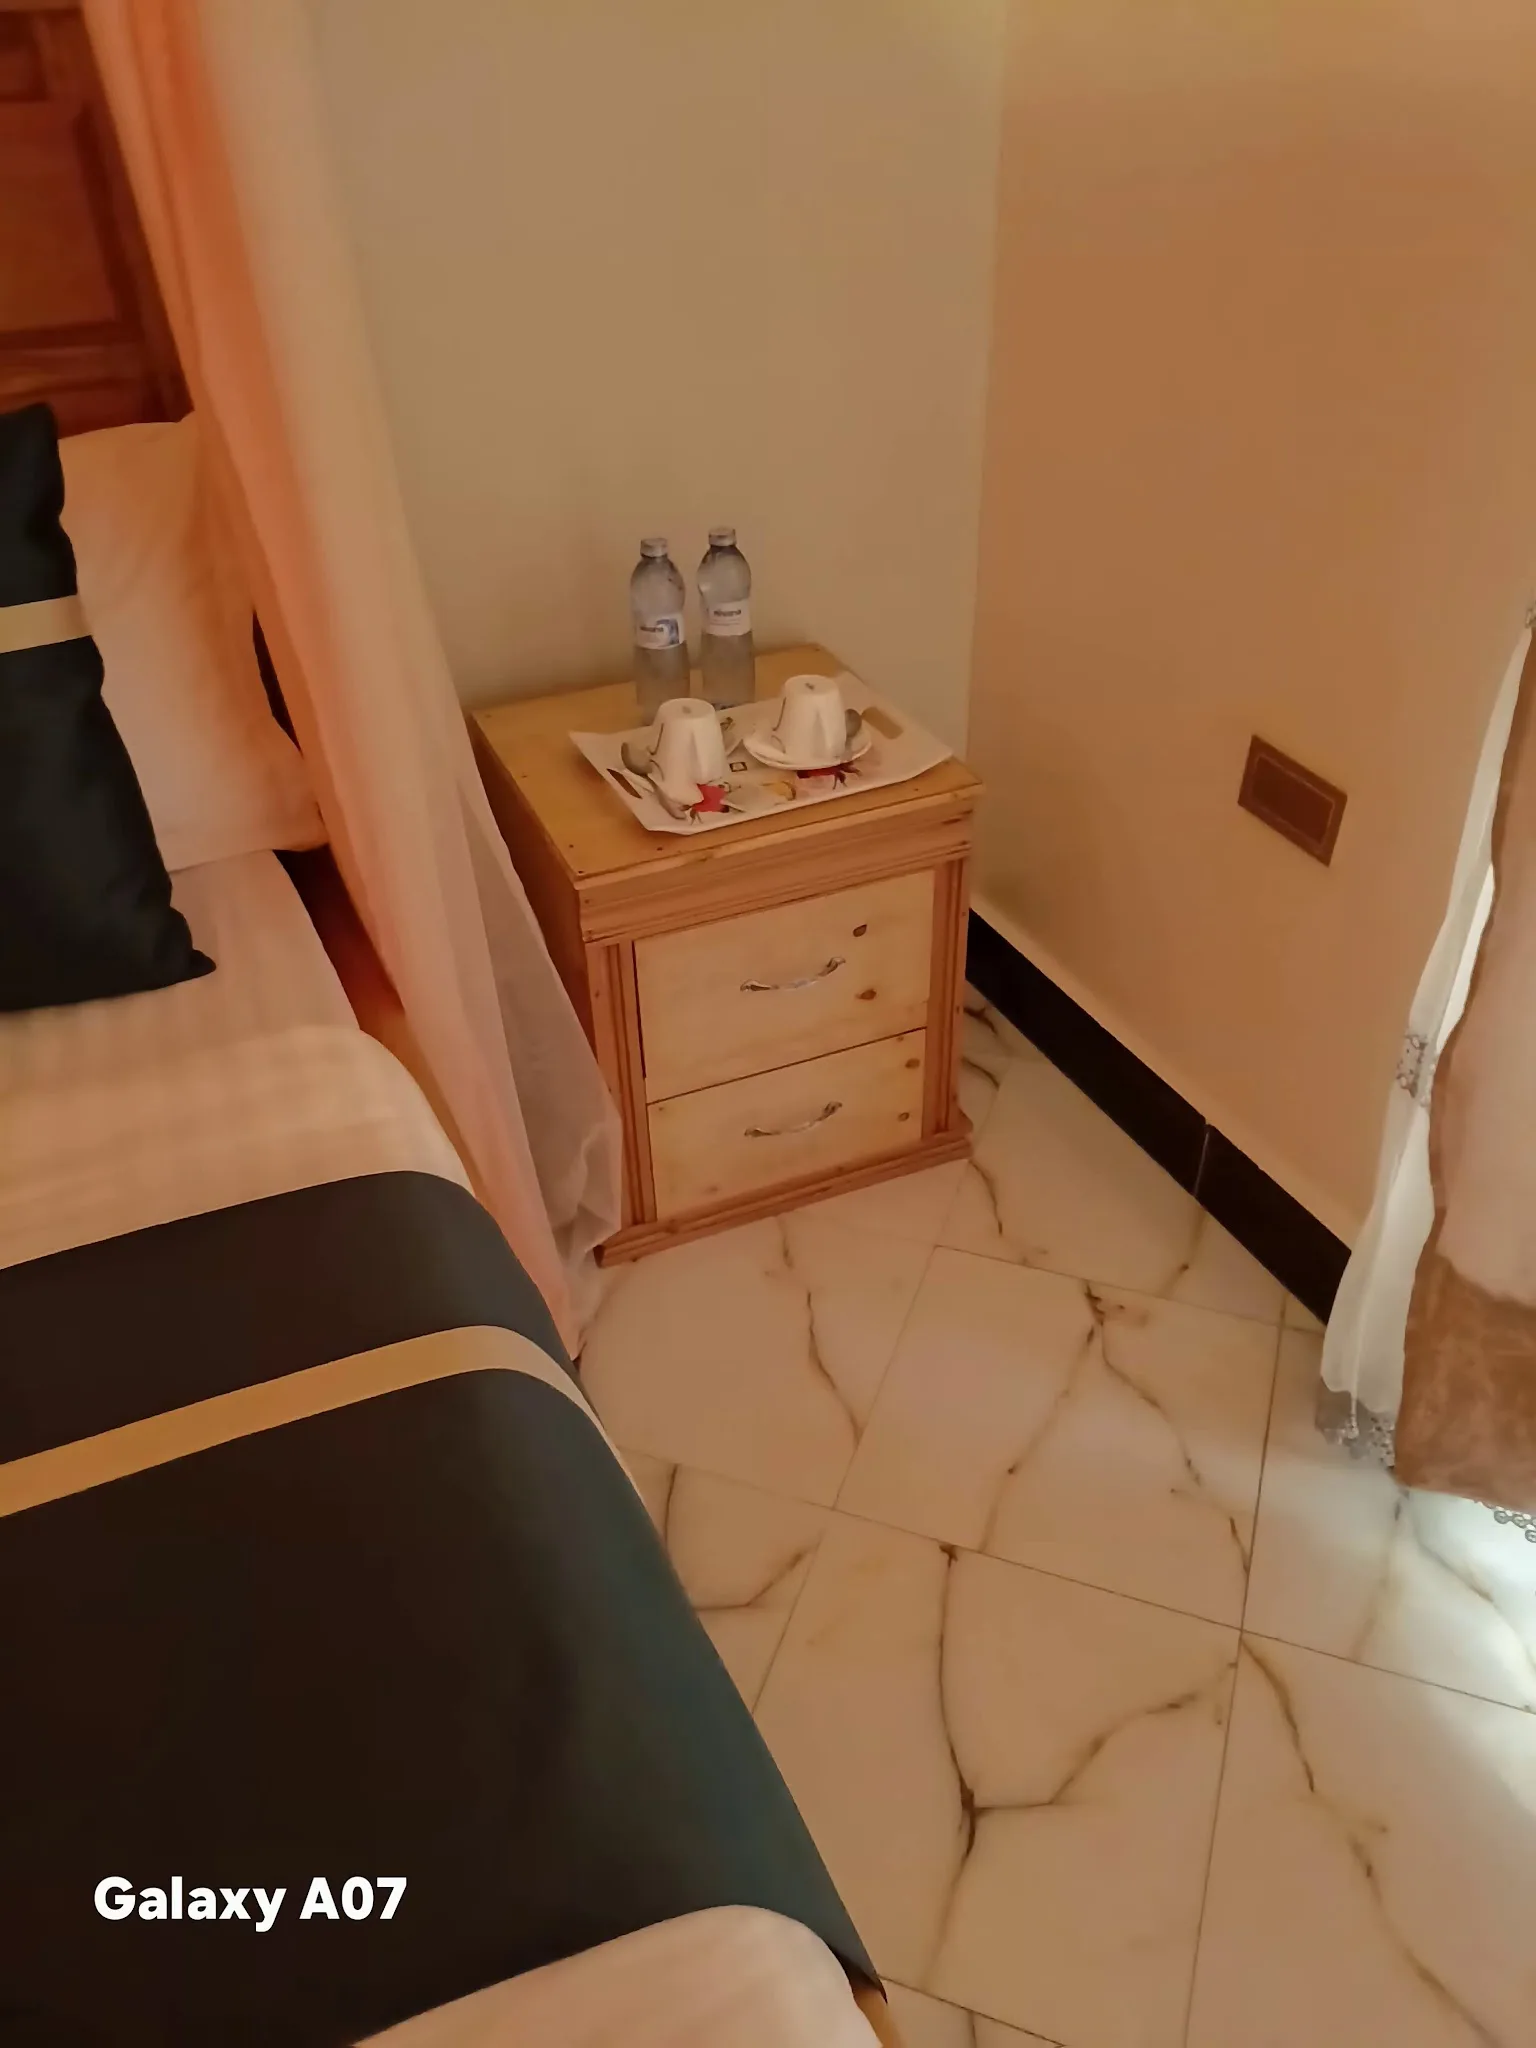
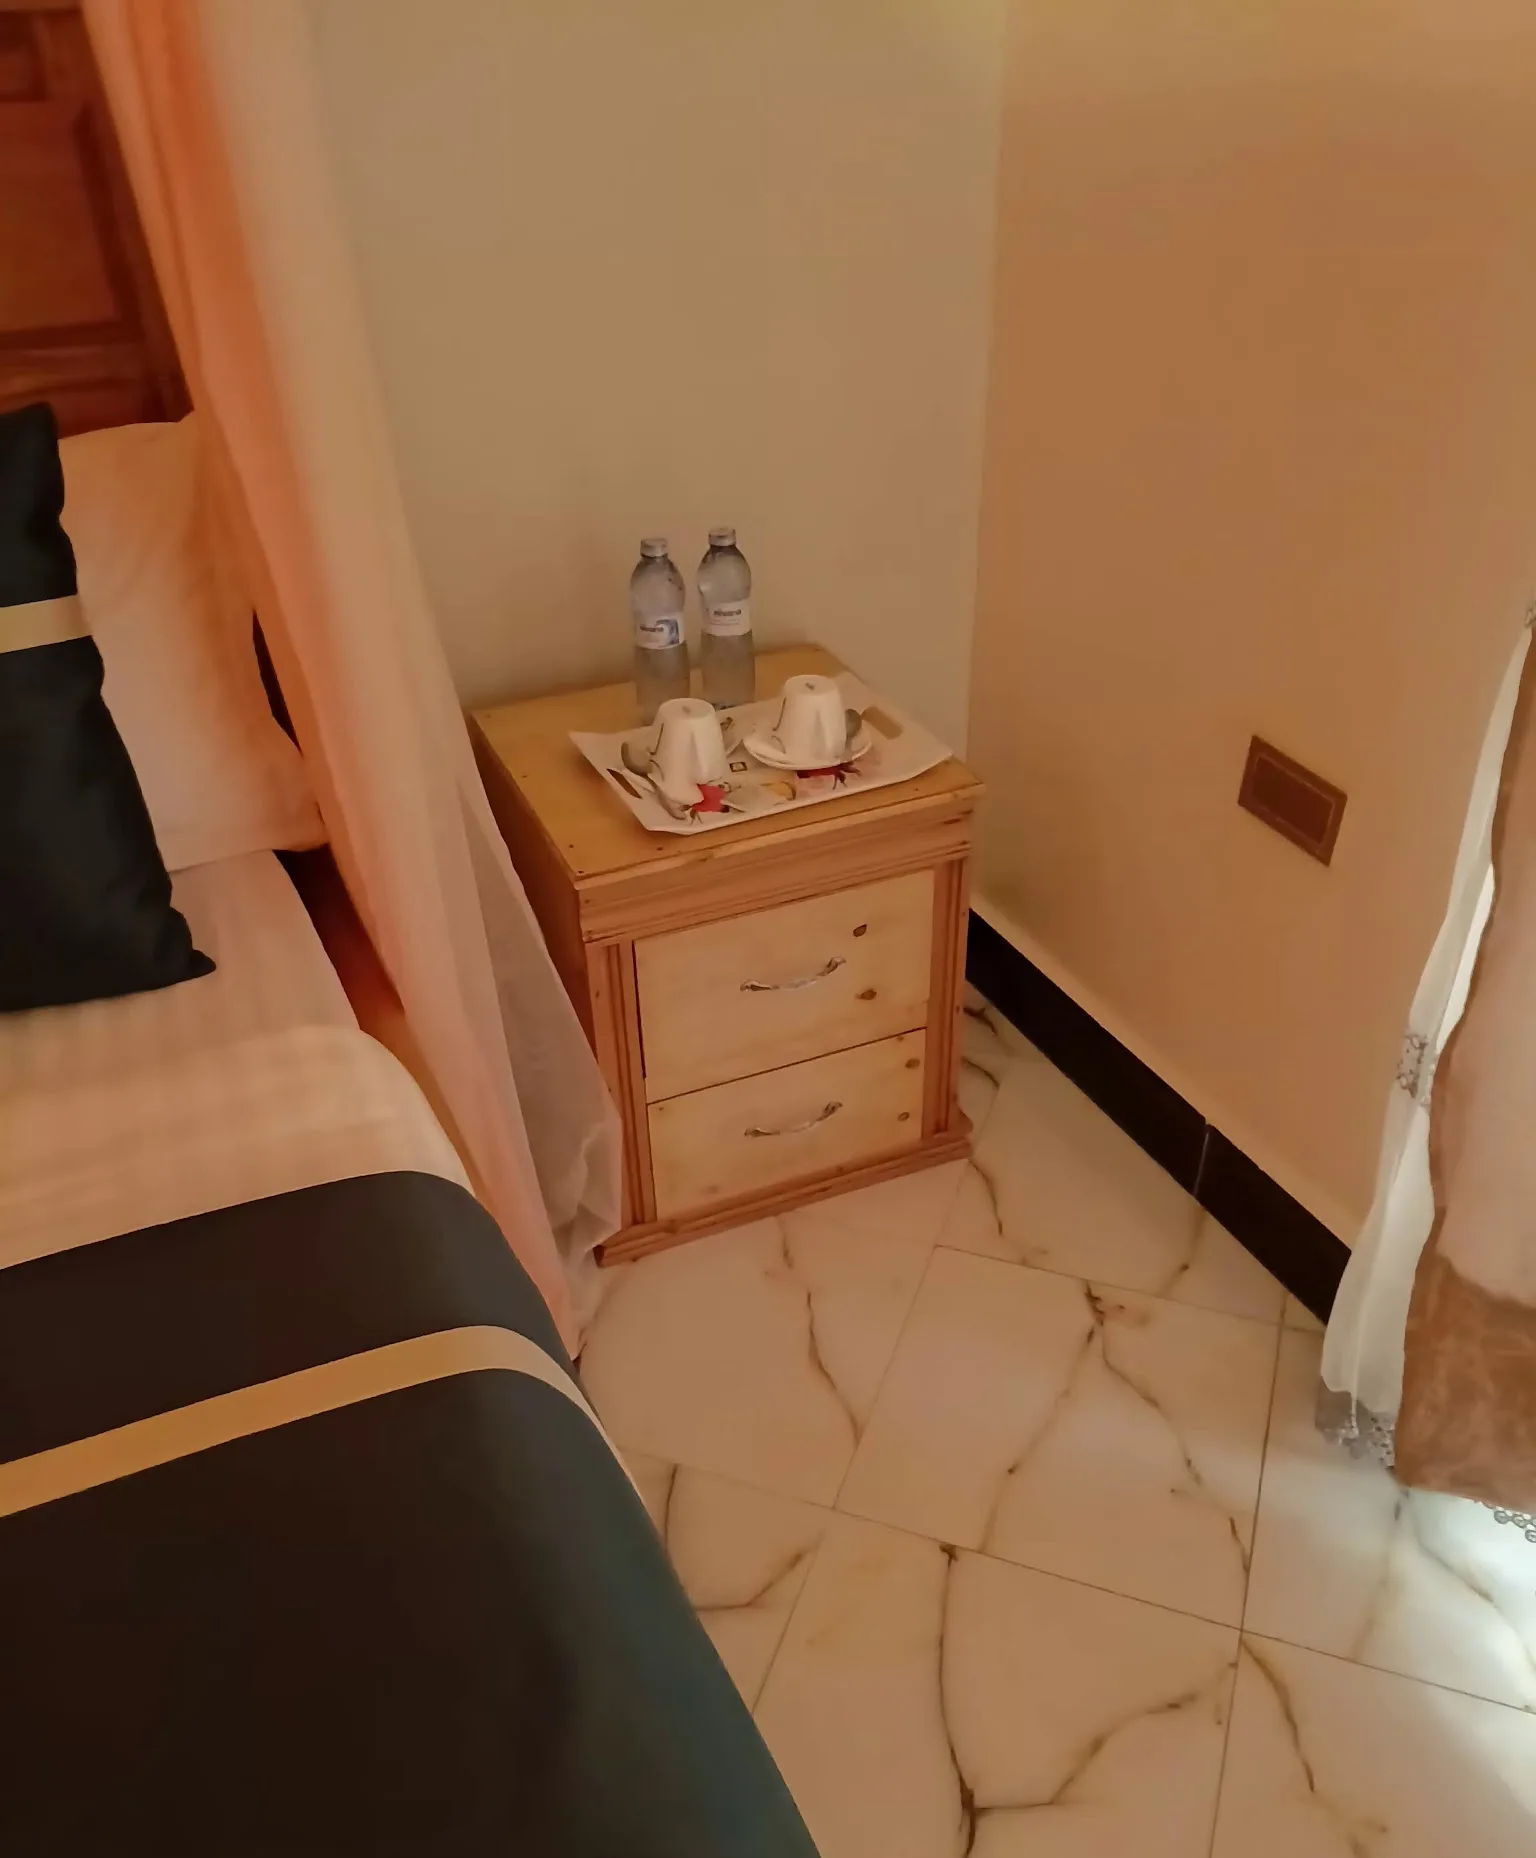
Crop Galaxy A07 watermarks; keep explore page pictures; fix twin room photo

diff --git a/gallery.html b/gallery.html
@@ -30,7 +30,7 @@
 <section class="sec">
  <div class="wrap">
  
-  <div class="ggrid"><img loading="lazy" src="assets/images/relie-aerial-courtyard.webp" alt="Relie Motel courtyard and secure parking from the air"><img loading="lazy" src="assets/images/relie-aerial-entrance.webp" alt="Relie Motel entrance with palm trees from the air"><img loading="lazy" src="assets/images/relie-aerial-forecourt.webp" alt="Relie Motel glass wing and curved balconies from the air"><img loading="lazy" src="assets/images/relie-aerial-neighborhood.webp" alt="Relie Motel and its Fort Portal neighborhood from the air"><img loading="lazy" src="assets/images/relie-aerial-wide.webp" alt="Wide aerial view of Relie Motel and Fort Portal"><img loading="lazy" src="assets/images/relie-entrance-plants.webp" alt="Relie Motel entrance with potted plants"><img loading="lazy" src="assets/images/relie-lobby-plants.webp" alt="Snake plants by the lobby staircase"><img loading="lazy" src="assets/images/relie-corridor.webp" alt="Corridor to the rooms"><img loading="lazy" src="assets/images/relie-room-double.webp" alt="Standard Double Room with TV"><img loading="lazy" src="assets/images/relie-room-twin.webp" alt="Standard room with canopy netting and TV"><img loading="lazy" src="assets/images/relie-room-deluxe.webp" alt="Deluxe Double Room with canopy bed"><img loading="lazy" src="assets/images/relie-room-deluxe-2.webp" alt="Deluxe room with canopy bed and TV"><img loading="lazy" src="assets/images/relie-room-suite.webp" alt="Room with canopy bed and dining table"><img loading="lazy" src="assets/images/relie-room-canopy.webp" alt="Bed with canopy netting"><img loading="lazy" src="assets/images/relie-room-bedside.webp" alt="Bedside with fresh towels and water"><img loading="lazy" src="assets/images/relie-bed-overhead.webp" alt="Freshly made bed"><img loading="lazy" src="assets/images/relie-room-tray.webp" alt="Welcome tray with tea and coffee"><img loading="lazy" src="assets/images/relie-bath.webp" alt="Private bathroom with shower"><img loading="lazy" src="assets/images/relie-bath-sink.webp" alt="Bathroom vanity"><img loading="lazy" src="assets/images/relie-bath-shower.webp" alt="Modern rainfall shower"><img loading="lazy" src="assets/images/relie-dining-room.webp" alt="Restaurant dining corner by the window"><img loading="lazy" src="assets/images/relie-dining-corner.webp" alt="Dining area in the restaurant"><img loading="lazy" src="assets/images/relie-bar-shelf.webp" alt="The bar"><img loading="lazy" src="assets/images/relie-bar-fridge.webp" alt="Chilled drinks at the bar"><img loading="lazy" src="assets/images/relie-conference.webp" alt="Conference and events hall"><img loading="lazy" src="assets/images/relie-conference-proj.webp" alt="Conference room with projector"><img loading="lazy" src="assets/images/relie-massage.webp" alt="In-house massage room"><img loading="lazy" src="assets/images/relie-spa-products.webp" alt="Spa and wellness products"><img loading="lazy" src="assets/images/relie-spa-towels.webp" alt="Fresh spa towels"></div>
+  <div class="ggrid"><img loading="lazy" src="assets/images/relie-aerial-courtyard.webp" alt="Relie Motel courtyard and secure parking from the air"><img loading="lazy" src="assets/images/relie-aerial-entrance.webp" alt="Relie Motel entrance with palm trees from the air"><img loading="lazy" src="assets/images/relie-aerial-forecourt.webp" alt="Relie Motel glass wing and curved balconies from the air"><img loading="lazy" src="assets/images/relie-aerial-neighborhood.webp" alt="Relie Motel and its Fort Portal neighborhood from the air"><img loading="lazy" src="assets/images/relie-aerial-wide.webp" alt="Wide aerial view of Relie Motel and Fort Portal"><img loading="lazy" src="assets/images/relie-entrance-plants.webp" alt="Relie Motel entrance with potted plants"><img loading="lazy" src="assets/images/relie-lobby-plants.webp" alt="Snake plants by the lobby staircase"><img loading="lazy" src="assets/images/relie-corridor.webp" alt="Corridor to the rooms"><img loading="lazy" src="assets/images/relie-room-double.webp" alt="Standard Double Room with TV"><img loading="lazy" src="assets/images/relie-room-deluxe.webp" alt="Deluxe Double Room with canopy bed"><img loading="lazy" src="assets/images/relie-room-deluxe-2.webp" alt="Deluxe room with canopy bed and TV"><img loading="lazy" src="assets/images/relie-room-suite.webp" alt="Room with canopy bed and dining table"><img loading="lazy" src="assets/images/relie-room-canopy.webp" alt="Bed with canopy netting"><img loading="lazy" src="assets/images/relie-room-bedside.webp" alt="Bedside with fresh towels and water"><img loading="lazy" src="assets/images/relie-bed-overhead.webp" alt="Freshly made bed"><img loading="lazy" src="assets/images/relie-room-tray.webp" alt="Welcome tray with tea and coffee"><img loading="lazy" src="assets/images/relie-bath.webp" alt="Private bathroom with shower"><img loading="lazy" src="assets/images/relie-bath-sink.webp" alt="Bathroom vanity"><img loading="lazy" src="assets/images/relie-bath-shower.webp" alt="Modern rainfall shower"><img loading="lazy" src="assets/images/relie-dining-room.webp" alt="Restaurant dining corner by the window"><img loading="lazy" src="assets/images/relie-dining-corner.webp" alt="Dining area in the restaurant"><img loading="lazy" src="assets/images/relie-bar-shelf.webp" alt="The bar"><img loading="lazy" src="assets/images/relie-bar-fridge.webp" alt="Chilled drinks at the bar"><img loading="lazy" src="assets/images/relie-conference.webp" alt="Conference and events hall"><img loading="lazy" src="assets/images/relie-conference-proj.webp" alt="Conference room with projector"><img loading="lazy" src="assets/images/relie-massage.webp" alt="In-house massage room"><img loading="lazy" src="assets/images/relie-spa-products.webp" alt="Spa and wellness products"><img loading="lazy" src="assets/images/relie-spa-towels.webp" alt="Fresh spa towels"></div>
  </div>
 </section>
 <footer>

diff --git a/packages.html b/packages.html
@@ -31,7 +31,7 @@
  <div class="wrap">
   <div class="cards">
    <div class="card"><img src="assets/images/relie-room-double.webp" alt="Best available rate rooms"><div class="b"><h3>Best Available Rate</h3><p class="rate">Unlock the Best. Every Time.</p><p style="font-size:.9rem">Book direct on WhatsApp and enjoy the most flexible, competitive rate available — plus instant confirmation from our front desk.</p><div class="links"><a href="https://wa.me/256778472498?text=Hello%20Relie%20Motel!%20Please%20give%20me%20your%20best%20available%20rate.">Book Now</a></div></div></div>
-   <div class="card"><img src="assets/images/relie-room-bedside.webp" alt="Advanced purchase rooms"><div class="b"><h3>Advanced Purchase</h3><p class="rate">Plan Ahead. Save Big.</p><p style="font-size:.9rem">Book 14+ days in advance and save 10%. Non-refundable, so book with certainty and start counting down to your getaway.</p><div class="links"><a href="https://wa.me/256778472498?text=Hello%20Relie%20Motel!%20I%27d%20like%20the%20Advanced%20Purchase%20rate.">Book Now</a></div></div></div>
+   <div class="card"><img src="assets/images/relie-bed-overhead.webp" alt="Advanced purchase rooms"><div class="b"><h3>Advanced Purchase</h3><p class="rate">Plan Ahead. Save Big.</p><p style="font-size:.9rem">Book 14+ days in advance and save 10%. Non-refundable, so book with certainty and start counting down to your getaway.</p><div class="links"><a href="https://wa.me/256778472498?text=Hello%20Relie%20Motel!%20I%27d%20like%20the%20Advanced%20Purchase%20rate.">Book Now</a></div></div></div>
    <div class="card"><img src="assets/images/relie-aerial-neighborhood.webp" alt="Fort Portal toward Kibale"><div class="b"><h3>Kibale Chimp Trekking Package</h3><p class="rate">Stay + Trek Bundle</p><p style="font-size:.9rem">Two nights' accommodation, breakfast, and help arranging your Kibale National Park chimpanzee trekking permit and guide. The park is just 13 km away.</p><div class="links"><a href="https://wa.me/256778472498?text=Hello%20Relie%20Motel!%20Tell%20me%20more%20about%20the%20Kibale%20Chimp%20Trekking%20Package.">Book Now</a></div></div></div>
    <div class="card"><img src="assets/images/relie-conference.webp" alt="Groups and events at Relie Motel"><div class="b"><h3>Groups &amp; Tour Operators</h3><p class="rate">Partner Rate</p><p style="font-size:.9rem">Special rates for tour operators, schools, church groups and wedding blocks of 5+ rooms. Partnership commission available for operators.</p><div class="links"><a href="groups.html">Request Proposal</a></div></div></div>
   </div>

diff --git a/index.html b/index.html
@@ -57,7 +57,7 @@
   <p class="lead">Explore our range of accommodations, from cozy standard rooms to spacious deluxe doubles, tailored to suit every traveller's preference.</p>
   <div class="cards">
    <div class="card"><img src="assets/images/relie-room-double.webp" alt="Standard Double Room"><div class="b"><h3>Standard Double Room</h3><p style="font-size:.9rem;color:#666">1 double bed · private bathroom · Wi-Fi · TV</p><p class="rate">Rates from USD 24</p><div class="links"><a href="rooms/double.html">See room details</a><a href="https://wa.me/256778472498?text=Hello%20Relie%20Motel!%20I%27d%20like%20to%20book%20the%20Standard%20Double%20Room.">Book now</a></div></div></div>
-   <div class="card"><img src="assets/images/relie-room-twin.webp" alt="Standard Twin Room"><div class="b"><h3>Standard Twin Room</h3><p style="font-size:.9rem;color:#666">2 single beds · writing desk · sitting area</p><p class="rate">Rates from USD 29</p><div class="links"><a href="rooms/twin.html">See room details</a><a href="https://wa.me/256778472498?text=Hello%20Relie%20Motel!%20I%27d%20like%20to%20book%20the%20Standard%20Twin%20Room.">Book now</a></div></div></div>
+   <div class="card"><img src="assets/images/relie-room-bedside.webp" alt="Standard Twin Room"><div class="b"><h3>Standard Twin Room</h3><p style="font-size:.9rem;color:#666">2 single beds · writing desk · sitting area</p><p class="rate">Rates from USD 29</p><div class="links"><a href="rooms/twin.html">See room details</a><a href="https://wa.me/256778472498?text=Hello%20Relie%20Motel!%20I%27d%20like%20to%20book%20the%20Standard%20Twin%20Room.">Book now</a></div></div></div>
    <div class="card"><img src="assets/images/relie-room-deluxe.webp" alt="Deluxe Double Room"><div class="b"><h3>Deluxe Double Room</h3><p style="font-size:.9rem;color:#666">Upscale double · sitting area · garden-facing</p><p class="rate">Rates from USD 35</p><div class="links"><a href="rooms/deluxe.html">See room details</a><a href="https://wa.me/256778472498?text=Hello%20Relie%20Motel!%20I%27d%20like%20to%20book%20the%20Deluxe%20Double%20Room.">Book now</a></div></div></div>
   </div>
   <a class="btn em" href="stay.html">See All Accommodations</a>

diff --git a/explore.html b/explore.html
@@ -44,7 +44,7 @@
    <div class="card"><img src="assets/images/places/rwenzori.webp" alt="Rwenzori Mountains of the Moon" loading="lazy"><div class="b"><h3>Rwenzori Mountains</h3><p class="rate">Mountains &middot; about 1 hr 30</p><p style="font-size:.9rem">The legendary Mountains of the Moon. Day hikes to panoramic ridges or full treks to Margherita Peak, Africa's third highest summit.</p></div></div>
    <div class="card"><img src="assets/images/places/tea.webp" alt="Tea plantations around Fort Portal" loading="lazy"><div class="b"><h3>Tea Plantation Tours</h3><p class="rate">Countryside &middot; on the roadside</p><p style="font-size:.9rem">The hills around Fort Portal are carpeted in tea — stop at the estates along the Kibale road, plus the Karambi Royal Tombs of the Tooro kings.</p></div></div>
    <div class="card"><img src="assets/images/places/albert.webp" alt="Lake Albert and the Albertine Rift" loading="lazy"><div class="b"><h3>Lake Albert &amp; the Rift</h3><p class="rate">Rift &middot; about 2 hrs</p><p style="font-size:.9rem">Stand on the escarpment edge and look across the Albertine Rift toward the Congo border, with fishing villages below at Ntoroko.</p></div></div>
-   <div class="card"><img src="assets/images/relie-aerial-wide.webp" alt="Fort Portal from the air" loading="lazy"><div class="b"><h3>Golf &amp; Sports</h3><p class="rate">In town &middot; within 2 km</p><p style="font-size:.9rem">Fort Portal Golf Course, Afriyea Golf Academy and King Oyo Sports Complex — all a short hop from the motel.</p></div></div>
+   <div class="card"><img src="assets/images/demo-groups-conference.webp" alt="Golf and sports in Fort Portal" loading="lazy"><div class="b"><h3>Golf &amp; Sports</h3><p class="rate">In town &middot; within 2 km</p><p style="font-size:.9rem">Fort Portal Golf Course, Afriyea Golf Academy and King Oyo Sports Complex — all a short hop from the motel.</p></div></div>
   </div>
  </div>
 </section>

diff --git a/rooms/twin.html b/rooms/twin.html
@@ -25,12 +25,12 @@
   <button id="bookBtn">BOOK NOW</button>
  </div>
 </div>
-<section class="page-hero"><img src="../assets/images/relie-room-twin.webp" alt="Standard Twin Room at Relie Motel">
+<section class="page-hero"><img src="../assets/images/relie-room-bedside.webp" alt="Standard Twin Room at Relie Motel">
  <div class="cap"><div class="tag">Accommodations</div><h1>Standard Twin Room</h1></div></section>
 <section class="sec alt">
  <div class="wrap">
   <div class="cards" style="grid-template-columns:repeat(auto-fit,minmax(300px,1fr))">
-   <div class="card"><img src="../assets/images/relie-room-twin.webp" alt="Standard Twin Room at Relie Motel"><div class="b"><p class="rate">Rates from USD 29 / night</p><p style="font-size:.9rem;color:#666">2 single beds · sleeps 2</p><p style="margin-top:14px"><a class="btn" href="https://wa.me/256778472498?text=Hello%20Relie%20Motel!%20I%27d%20like%20to%20book%20the%20Standard Twin Room">Book Now</a></p></div></div>
+   <div class="card"><img src="../assets/images/relie-room-bedside.webp" alt="Standard Twin Room at Relie Motel"><div class="b"><p class="rate">Rates from USD 29 / night</p><p style="font-size:.9rem;color:#666">2 single beds · sleeps 2</p><p style="margin-top:14px"><a class="btn" href="https://wa.me/256778472498?text=Hello%20Relie%20Motel!%20I%27d%20like%20to%20book%20the%20Standard Twin Room">Book Now</a></p></div></div>
    <div class="card"><div class="b"><h3>About This Room</h3><p style="font-size:.95rem">Two single beds, a writing desk and a bright window make the Twin a favourite with colleagues and friends travelling together.</p>
    <h3 style="margin-top:18px">Room Amenities</h3>
    <ul class="tick" style="margin-top:10px">

diff --git a/stay.html b/stay.html
@@ -37,7 +37,7 @@
   <p class="lead">The Standard Rooms are an exceptional value — clean, spacious and quiet, offered with one double bed or two single beds.</p>
   <div class="cards">
    <div class="card"><img src="assets/images/relie-room-double.webp" alt="Standard Double Room"><div class="b"><h3>Standard Double Room</h3><p class="rate">Rates from USD 24</p><div class="links"><a href="rooms/double.html">See room details</a><a href="https://wa.me/256778472498?text=Hello%20Relie%20Motel!%20I%27d%20like%20to%20book%20the%20Standard%20Double%20Room.">Book now</a></div></div></div>
-   <div class="card"><img src="assets/images/relie-room-twin.webp" alt="Standard Twin Room"><div class="b"><h3>Standard Twin Room</h3><p class="rate">Rates from USD 29</p><div class="links"><a href="rooms/twin.html">See room details</a><a href="https://wa.me/256778472498?text=Hello%20Relie%20Motel!%20I%27d%20like%20to%20book%20the%20Standard%20Twin%20Room.">Book now</a></div></div></div>
+   <div class="card"><img src="assets/images/relie-room-bedside.webp" alt="Standard Twin Room"><div class="b"><h3>Standard Twin Room</h3><p class="rate">Rates from USD 29</p><div class="links"><a href="rooms/twin.html">See room details</a><a href="https://wa.me/256778472498?text=Hello%20Relie%20Motel!%20I%27d%20like%20to%20book%20the%20Standard%20Twin%20Room.">Book now</a></div></div></div>
   </div>
   <div class="tag">Guest Rooms</div>
   <h2>Deluxe Rooms</h2>
